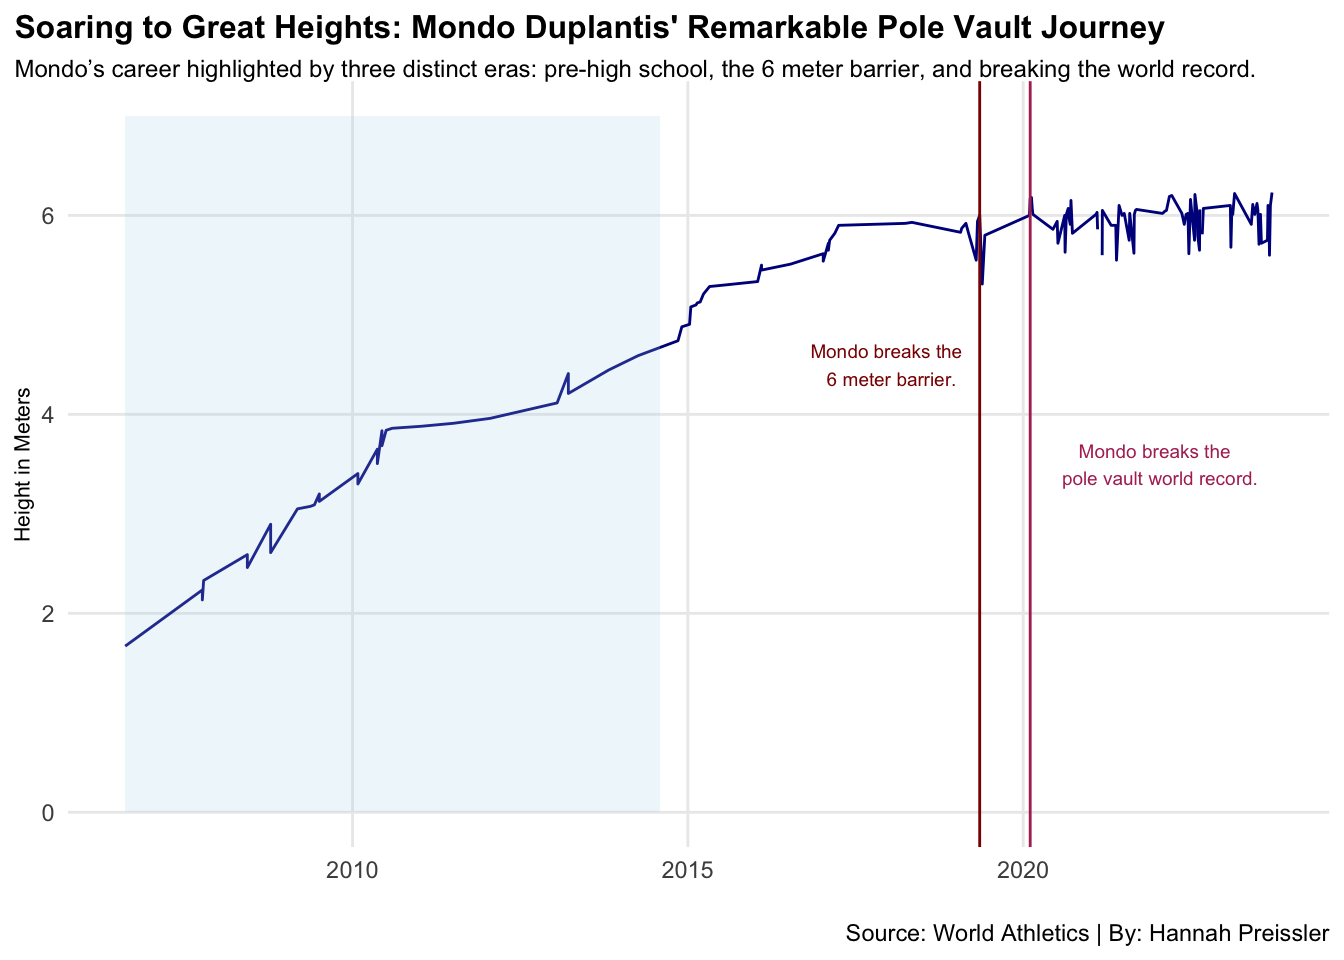
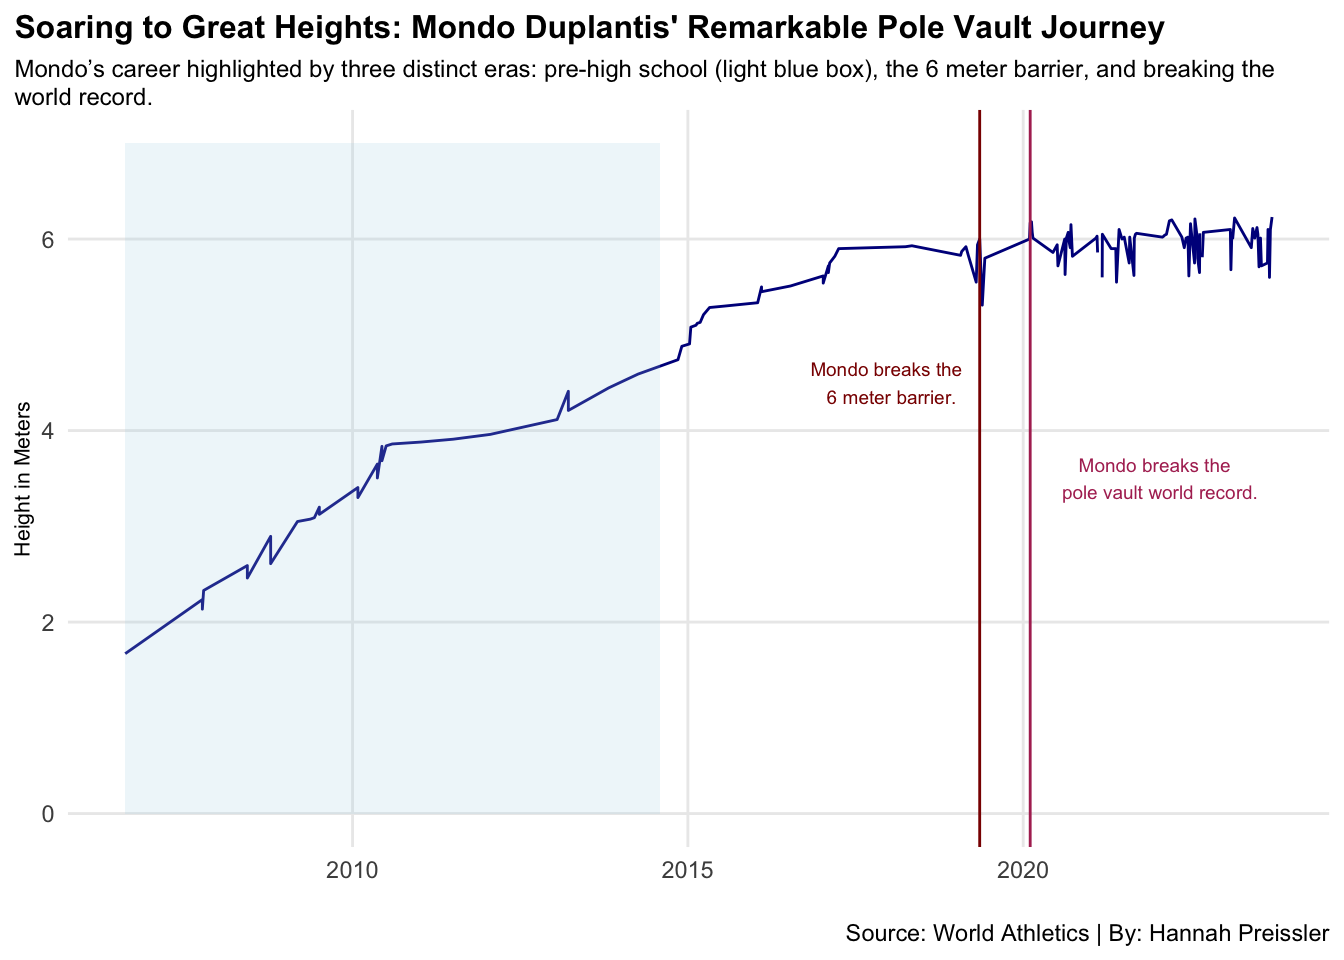
again

diff --git a/posts/mondo-is-the-best-pole-vaulter-in-the-world/index.html b/posts/mondo-is-the-best-pole-vaulter-in-the-world/index.html
@@ -178,8 +178,11 @@ pre > code.sourceCode > span > a:first-child::before { text-decoration: underlin
 
 
 <p>Who is Armand ‘Mondo’ Duplantis?</p>
-<p>Mondo Duplantis is a Swedish-American pole vaulter taht has taken the sport to new hights, constantly raising the bar and breaking his own world records again and again. Mondo began his vaulting career at the young age of four. His father, Greg Duplantis, was an All-American pole vaulter at LSU and sparked Mondo’s passion at a very young age. His remarkable charted progression goes all the way back to when he was six years old. There is no other vaulter in the world that has a record this detailed.</p>
-<p>Let’s breakdown what makes Mondo the best pole vaulter in the world.</p>
+<p>Mondo Duplantis is a Swedish-American pole vaulter who has taken the sport to new heights, constantly raising the bar and breaking his world records again and again. He began his vaulting career at the young age of four. Mondo’s father, Greg Duplantis, was an All-American pole vaulter at LSU and sparked Mondo’s passion at a very young age. His remarkable charted progression goes back to when he was six years old. There is no other vaulter in the world that has a record this detailed.</p>
+<p>Let’s break down what makes Mondo the best pole vaulter in the world.</p>
+<p>As the saying goes, practice makes perfect. That’s exactly what has helped contribute to Mondo’s success. Since he started at such a young age, he had nearly ten more years of practice and experience under his belt compared to his peers. In his freshman year of high school, he was already jumping 4.87m (16’). With this impressive mark, he ultimately had no competition that could even touch the bars he was jumping at.</p>
+<p>His career continued to take off after high school as he broke the 6-meter barrier (which is a huge accomplishment for any male vaulter) in his first (and only) year of college at his father’s alma mater LSU.</p>
+<p>After finishing his first year at LSU he decided to go pro and has flourished. In fact, he broke the world record in his rookie year.</p>
 <div class="cell">
 <details>
 <summary>Code</summary>
@@ -240,7 +243,7 @@ pre > code.sourceCode > span > a:first-child::before { text-decoration: underlin
 <span id="cb1-55"><a href="#cb1-55" aria-hidden="true" tabindex="-1"></a>    <span class="fu">geom_vline</span>(<span class="at">xintercept=</span><span class="fu">as.Date</span>(<span class="st">"2019-05-09"</span>), <span class="at">color=</span><span class="st">"darkred"</span>) <span class="sc">+</span> </span>
 <span id="cb1-56"><a href="#cb1-56" aria-hidden="true" tabindex="-1"></a>    <span class="fu">geom_vline</span>(<span class="at">xintercept=</span><span class="fu">as.Date</span>(<span class="st">"2020-02-08"</span>), <span class="at">color=</span><span class="st">"maroon"</span>) <span class="sc">+</span> </span>
 <span id="cb1-57"><a href="#cb1-57" aria-hidden="true" tabindex="-1"></a>  <span class="fu">labs</span>(<span class="at">title =</span> <span class="st">"Soaring to Great Heights: Mondo Duplantis' Remarkable Pole Vault Journey"</span>, </span>
-<span id="cb1-58"><a href="#cb1-58" aria-hidden="true" tabindex="-1"></a>    <span class="at">subtitle =</span><span class="st">"Mondo's career highlighted by three distinct eras: pre-high school, the 6 meter barrier, and breaking the world record."</span>, </span>
+<span id="cb1-58"><a href="#cb1-58" aria-hidden="true" tabindex="-1"></a>    <span class="at">subtitle =</span><span class="st">"Mondo's career highlighted by three distinct eras: pre-high school (light blue box), the 6 meter barrier, and breaking the world record."</span>, </span>
 <span id="cb1-59"><a href="#cb1-59" aria-hidden="true" tabindex="-1"></a>    <span class="at">y=</span><span class="st">"Height in Meters"</span>, </span>
 <span id="cb1-60"><a href="#cb1-60" aria-hidden="true" tabindex="-1"></a>    <span class="at">x=</span><span class="st">""</span>,</span>
 <span id="cb1-61"><a href="#cb1-61" aria-hidden="true" tabindex="-1"></a>    <span class="at">caption=</span><span class="st">"Source: World Athletics | By: Hannah Preissler"</span>) <span class="sc">+</span></span>

diff --git a/index.html b/index.html
@@ -165,7 +165,7 @@ ul.task-list li input[type="checkbox"] {
 
 <div class="quarto-listing quarto-listing-container-default" id="listing-listing">
 <div class="list quarto-listing-default">
-<div class="quarto-post image-right" data-index="0" data-categories="trackfield,polevault,analysis" data-listing-date-sort="1701583200000" data-listing-file-modified-sort="1701563894094" data-listing-date-modified-sort="NaN" data-listing-reading-time-sort="5">
+<div class="quarto-post image-right" data-index="0" data-categories="trackfield,polevault,analysis" data-listing-date-sort="1701583200000" data-listing-file-modified-sort="1701564875124" data-listing-date-modified-sort="NaN" data-listing-reading-time-sort="6">
 <div class="thumbnail">
 <p><a href="./posts/mondo-is-the-best-pole-vaulter-in-the-world/index.html"> <img src="./posts/mondo-is-the-best-pole-vaulter-in-the-world/chart2.png" class="thumbnail-image"> </a></p>
 </div>
